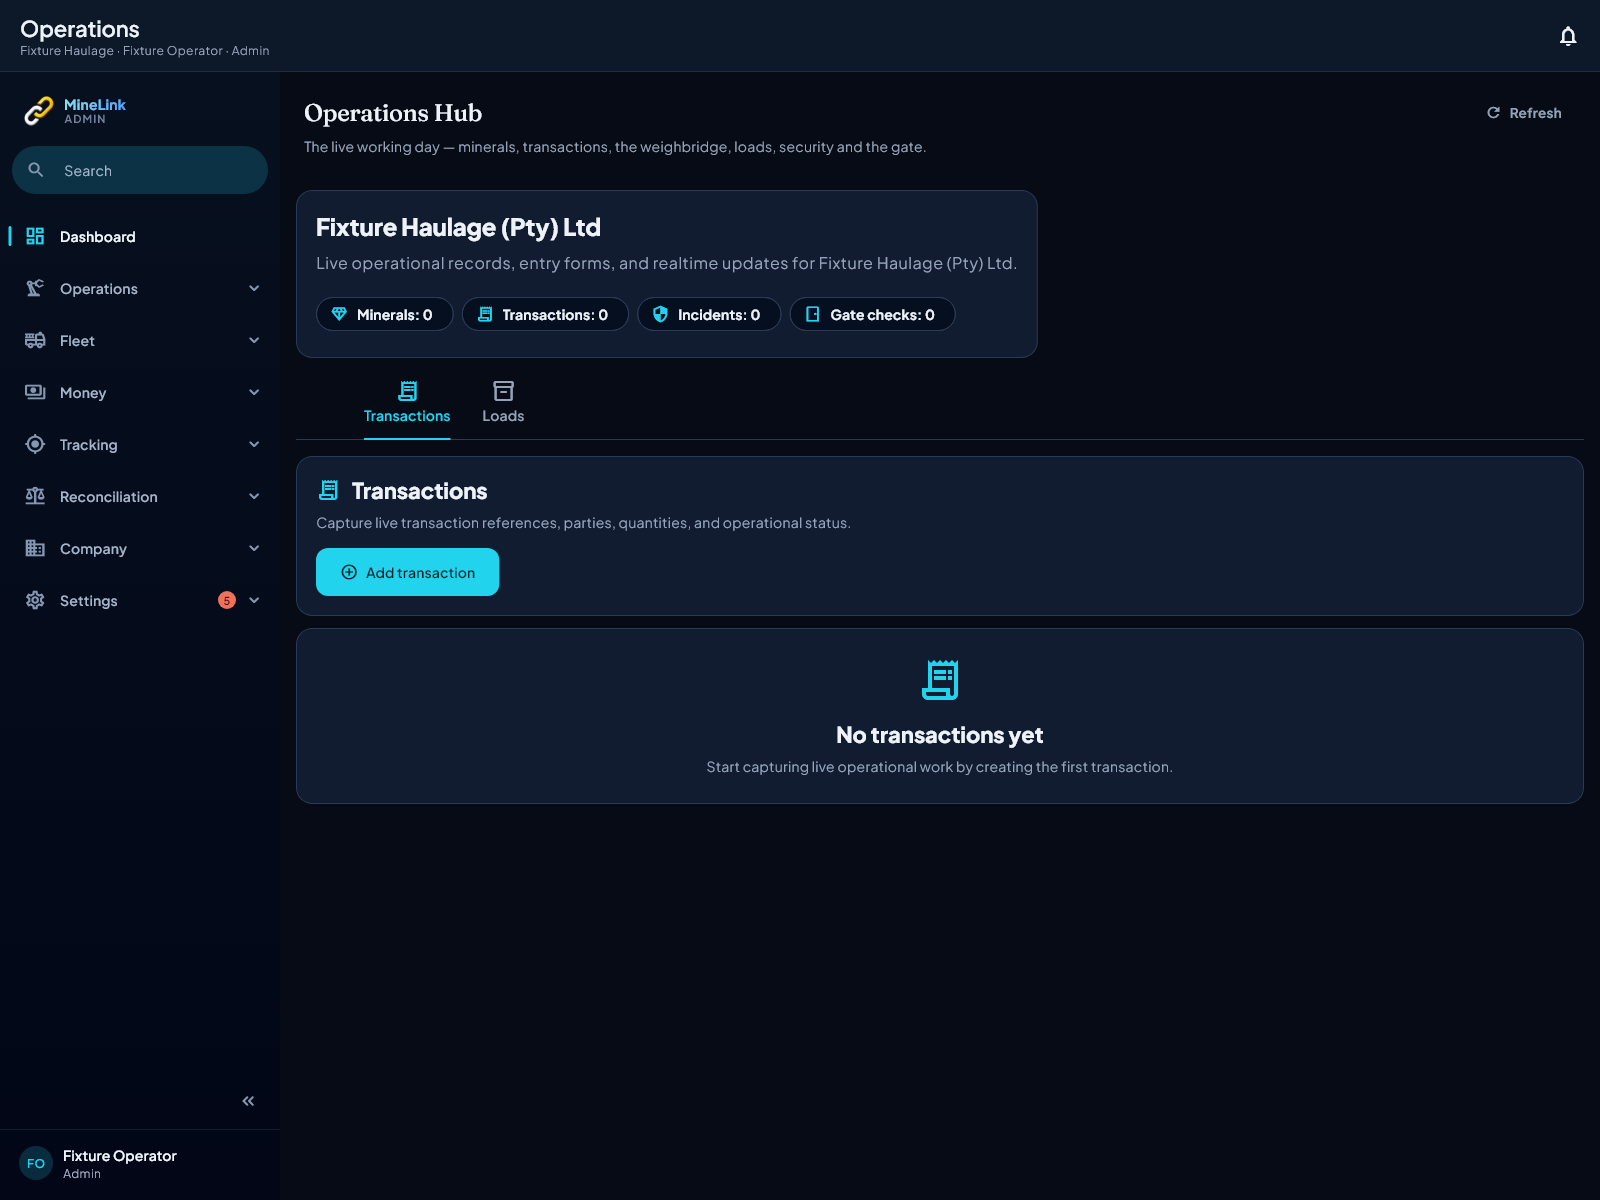
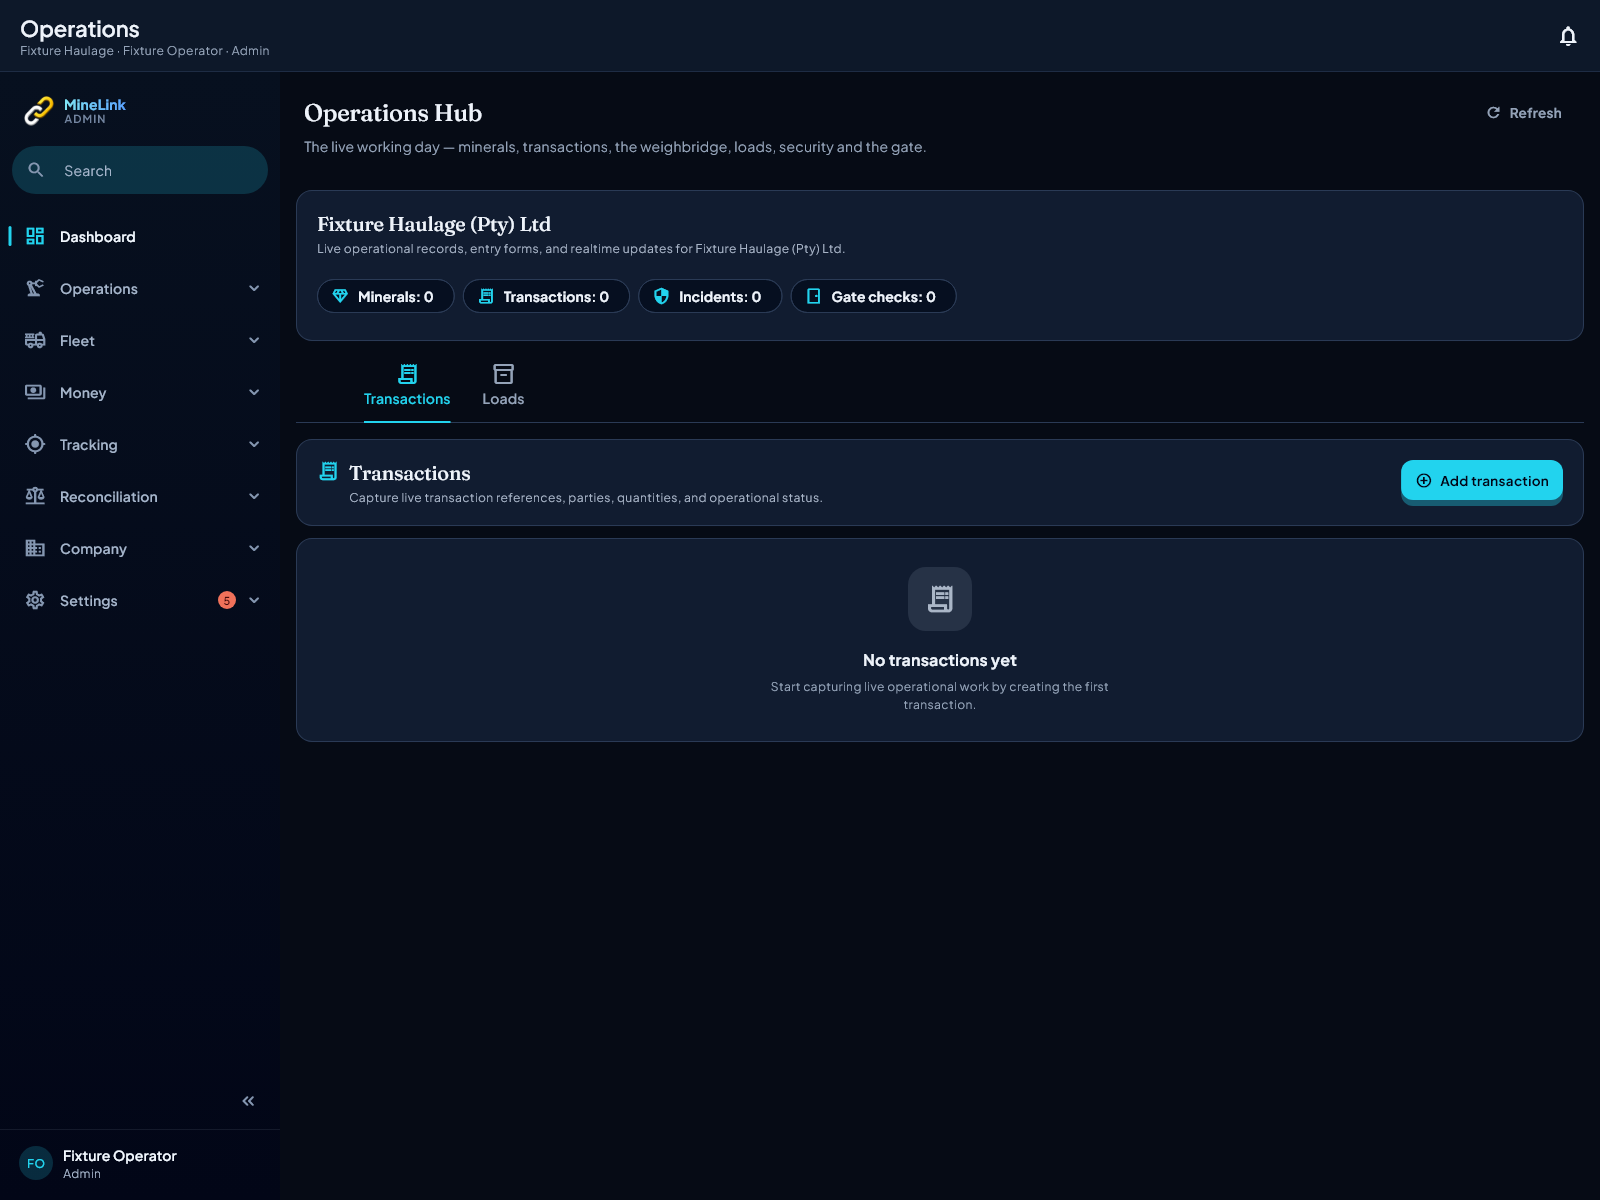
fix(operations): the hub heads its cards in the display face, spans the column, and names its tabs in sentence case
Phase 3 mine-portal pass, 2026-08-23. The Operations Hub was still built
from stock Material: a `Card` headed by a 24px sans ExtraBold company name
that — inside a `CrossAxisAlignment.start` column — sized to its content
and ended at x≈1040 on a 1600px canvas while every card under it spanned
the column; a tab card headed by a 22px sans ExtraBold row with the create
button stacked UNDER it; and a hand-rolled empty state in the same sans.
HANDOFF §3.25 classes 1, 2 and 4 on one screen. Its tab and dialog titles
were title case ("Gate Checks", "Mineral Catalogue", "Add Mineral", "Record
Weighbridge Entry", "Report Security Incident" …).

Now: MlCard + MlSectionTitle (Fraunces) for the company card, full width;
MlSectionTitle with the create action in its action slot for the tab card;
MlEmptyState in an MlCard for the empty body; sentence case on every tab
and dialog title (the tab's wire id is untouched).

Pinned by operations_hub_heads_test.dart — heading fontFamily is Fraunces,
the company card ends within 1.5px of the column edge, the action's right
edge is past 1500 and its top is level with the heading, every tab label is
sentence case, the empty state is the shared widget. Sabotaged by stashing
lib/features/operations: all five cases fail. Both hub goldens regenerated
and looked at. The empty ledger in the render is the fixture's stated intent
(screen_fixtures.dart: "the ledgers are not, on purpose"), not a lie.

Changed region(s): [[0.1875, 0.1542, 1.0, 0.6783]]

diff --git a/lib/features/operations/screens/operations_hub_screen.dart b/lib/features/operations/screens/operations_hub_screen.dart
@@ -313,34 +313,30 @@ class _OperationsSummaryHeader extends StatelessWidget {
 
   @override
   Widget build(BuildContext context) {
-    final theme = Theme.of(context);
-    final scheme = theme.colorScheme;
-
+    // The company card, in the portal's card vocabulary. Until 2026-08-23 it
+    // was a stock `Card` headed by a 24px sans ExtraBold company name, and —
+    // inside a `CrossAxisAlignment.start` column — it sized to its content,
+    // so it ended at x≈1040 on a 1600px canvas while every card under it
+    // spanned the column. Fraunces via `MlSectionTitle`, full width via the
+    // `SizedBox`. Phase 3 mine-portal pass.
     return Padding(
       padding: const EdgeInsets.fromLTRB(16, 16, 16, 0),
       child: Column(
         crossAxisAlignment: CrossAxisAlignment.start,
         children: [
-          Card(
-            child: Padding(
+          SizedBox(
+            width: double.infinity,
+            child: MlCard(
               padding: const EdgeInsets.all(20),
               child: Column(
                 crossAxisAlignment: CrossAxisAlignment.start,
                 children: [
-                  Text(
+                  MlSectionTitle(
                     access.company.companyName,
-                    style: theme.textTheme.headlineSmall?.copyWith(
-                      fontWeight: FontWeight.w800,
-                    ),
+                    subtitle:
+                        'Live operational records, entry forms, and realtime updates for ${access.operatorName}.',
+                    margin: const EdgeInsets.only(bottom: 16),
                   ),
-                  const SizedBox(height: 8),
-                  Text(
-                    'Live operational records, entry forms, and realtime updates for ${access.operatorName}.',
-                    style: theme.textTheme.bodyLarge?.copyWith(
-                      color: scheme.onSurfaceVariant,
-                    ),
-                  ),
-                  const SizedBox(height: 16),
                   Wrap(
                     spacing: 8,
                     runSpacing: 8,
@@ -431,40 +427,22 @@ class _OperationsTabView extends StatelessWidget {
         physics: const AlwaysScrollableScrollPhysics(),
         padding: const EdgeInsets.fromLTRB(16, 16, 16, 24),
         children: [
-          Card(
-            child: Padding(
-              padding: const EdgeInsets.all(20),
-              child: Column(
-                crossAxisAlignment: CrossAxisAlignment.start,
-                children: [
-                  Row(
-                    children: [
-                      Icon(config.icon, color: theme.colorScheme.primary),
-                      const SizedBox(width: 12),
-                      Expanded(
-                        child: Text(
-                          config.title,
-                          style: theme.textTheme.titleLarge?.copyWith(
-                            fontWeight: FontWeight.w800,
-                          ),
-                        ),
-                      ),
-                    ],
-                  ),
-                  const SizedBox(height: 8),
-                  Text(
-                    config.description,
-                    style: theme.textTheme.bodyMedium?.copyWith(
-                      color: theme.colorScheme.onSurfaceVariant,
-                    ),
-                  ),
-                  const SizedBox(height: 16),
-                  FilledButton.icon(
-                    onPressed: canCreate ? onCreatePressed : null,
-                    icon: const Icon(Icons.add_circle_outline),
-                    label: Text(config.createLabel),
-                  ),
-                ],
+          // The tab's heading: Fraunces section title with its icon, the
+          // description as the subtitle, and the create action RIGHT-ALIGNED
+          // in the heading's action slot — not a 20px sans ExtraBold row with
+          // the button stacked under it (HANDOFF §3.25 classes 1 and 2).
+          MlCard(
+            padding: const EdgeInsets.all(20),
+            child: MlSectionTitle(
+              config.title,
+              icon: config.icon,
+              subtitle: config.description,
+              margin: EdgeInsets.zero,
+              action: MlButton.primary(
+                label: config.createLabel,
+                icon: Icons.add_circle_outline,
+                compact: true,
+                onPressed: canCreate ? onCreatePressed : null,
               ),
             ),
           ),
@@ -632,7 +610,7 @@ class _OperationsTabConfig {
     switch (tab) {
       case OperationsTab.minerals:
         return const _OperationsTabConfig(
-          title: 'Mineral Catalogue',
+          title: 'Mineral catalogue',
           description:
               'Maintain live mineral definitions, grades, and measurement units for operational use.',
           createLabel: 'Add mineral',
@@ -665,7 +643,7 @@ class _OperationsTabConfig {
         );
       case OperationsTab.loads:
         return const _OperationsTabConfig(
-          title: 'Mineral Loads',
+          title: 'Mineral loads',
           description:
               'Track loading activity against vehicles, minerals, and transaction records in real time.',
           createLabel: 'Record load',
@@ -675,7 +653,7 @@ class _OperationsTabConfig {
         );
       case OperationsTab.security:
         return const _OperationsTabConfig(
-          title: 'Security Incidents',
+          title: 'Security incidents',
           description:
               'Log real incidents, severity, and status so the security workflow stays current for the team.',
           createLabel: 'Report incident',
@@ -686,7 +664,7 @@ class _OperationsTabConfig {
         );
       case OperationsTab.gate:
         return const _OperationsTabConfig(
-          title: 'Gate Checks',
+          title: 'Gate checks',
           description:
               'Track entry and exit checks with responsible staff, vehicle context, and gate status.',
           createLabel: 'Record gate check',
@@ -712,33 +690,13 @@ class _OperationsEmptyState extends StatelessWidget {
 
   @override
   Widget build(BuildContext context) {
-    final theme = Theme.of(context);
-    return Card(
-      child: Padding(
-        padding: const EdgeInsets.all(28),
-        child: Column(
-          mainAxisSize: MainAxisSize.min,
-          children: [
-            Icon(icon, size: 48, color: theme.colorScheme.primary),
-            const SizedBox(height: 16),
-            Text(
-              title,
-              style: theme.textTheme.titleLarge?.copyWith(
-                fontWeight: FontWeight.w800,
-              ),
-              textAlign: TextAlign.center,
-            ),
-            const SizedBox(height: 8),
-            Text(
-              message,
-              style: theme.textTheme.bodyMedium?.copyWith(
-                color: theme.colorScheme.onSurfaceVariant,
-              ),
-              textAlign: TextAlign.center,
-            ),
-          ],
-        ),
-      ),
+    // The shared empty state, framed in the portal card. It was a stock
+    // `Card` with a 48px accent icon and a 22px sans ExtraBold title — the
+    // hub's own empty-state vocabulary beside the one every other portal
+    // screen uses. Phase 3 mine-portal pass, 2026-08-23.
+    return MlCard(
+      padding: EdgeInsets.zero,
+      child: MlEmptyState(icon: icon, title: title, message: message),
     );
   }
 }
@@ -834,7 +792,7 @@ Future<void> _showMineralDialog(
     context: context,
     builder: (dialogContext) {
       return AlertDialog(
-        title: Text(existing == null ? 'Add Mineral' : 'Edit Mineral'),
+        title: Text(existing == null ? 'Add mineral' : 'Edit mineral'),
         content: Form(
           key: formKey,
           child: ConstrainedBox(
@@ -944,7 +902,7 @@ Future<void> _showTransactionDialog(
         builder: (dialogContext, setState) {
           return AlertDialog(
             title: Text(
-              existing == null ? 'Add Transaction' : 'Edit Transaction',
+              existing == null ? 'Add transaction' : 'Edit transaction',
             ),
             content: Form(
               key: formKey,
@@ -1120,8 +1078,8 @@ Future<void> _showWeighbridgeDialog(
   final didSubmit = await _showStatefulDialog(
     context,
     title: existing == null
-        ? 'Record Weighbridge Entry'
-        : 'Edit Weighbridge Entry',
+        ? 'Record weighbridge entry'
+        : 'Edit weighbridge entry',
     builder: (dialogContext, setState) {
       return Form(
         key: formKey,
@@ -1207,7 +1165,7 @@ Future<void> _showLoadDialog(
 
   final didSubmit = await _showStatefulDialog(
     context,
-    title: existing == null ? 'Record Mineral Load' : 'Edit Mineral Load',
+    title: existing == null ? 'Record mineral load' : 'Edit mineral load',
     builder: (dialogContext, setState) {
       return Column(
         mainAxisSize: MainAxisSize.min,
@@ -1311,8 +1269,8 @@ Future<void> _showSecurityDialog(
   final didSubmit = await _showStatefulDialog(
     context,
     title: existing == null
-        ? 'Report Security Incident'
-        : 'Edit Security Incident',
+        ? 'Report security incident'
+        : 'Edit security incident',
     builder: (dialogContext, setState) {
       return Form(
         key: formKey,
@@ -1423,7 +1381,7 @@ Future<void> _showGateDialog(
 
   final didSubmit = await _showStatefulDialog(
     context,
-    title: existing == null ? 'Record Gate Check' : 'Edit Gate Check',
+    title: existing == null ? 'Record gate check' : 'Edit gate check',
     builder: (dialogContext, setState) {
       return Column(
         mainAxisSize: MainAxisSize.min,

diff --git a/test/features/operations/operations_hub_heads_test.dart b/test/features/operations/operations_hub_heads_test.dart
@@ -1,0 +1,135 @@
+// The Operations Hub speaks the portal's card vocabulary.
+//
+// Phase 3 mine-portal pass, 2026-08-23. The hub was still built from stock
+// Material — a `Card` headed by a 24px sans ExtraBold company name that
+// sized to its content (ended at x≈1040 on a 1600px canvas while every card
+// under it spanned the column), a tab card headed by a 22px sans ExtraBold
+// row with the create button stacked UNDER it, and a hand-rolled empty state
+// in the same sans. Plus title case on tab titles and dialog titles ("Gate
+// Checks", "Add Mineral", "Record Weighbridge Entry"). This pins the heading
+// faces by `fontFamily`, the card's width by geometry, the action's
+// placement (right of the heading, not under it) and the casing.
+
+import 'package:flutter/material.dart';
+import 'package:flutter/rendering.dart';
+import 'package:flutter_riverpod/flutter_riverpod.dart';
+import 'package:flutter_test/flutter_test.dart';
+import 'package:shared_preferences/shared_preferences.dart';
+import 'package:supabase_flutter/supabase_flutter.dart';
+
+import 'package:flutter_application_1/core/design/components/ml_components.dart';
+import 'package:flutter_application_1/core/design/tokens/ml_tokens.dart';
+import 'package:flutter_application_1/core/theme/app_theme.dart';
+import 'package:flutter_application_1/features/auth/models/user_type.dart';
+import 'package:flutter_application_1/features/operations/models/operations_models.dart';
+import 'package:flutter_application_1/features/operations/screens/operations_hub_screen.dart';
+
+import '../../fixtures/screen_fixtures.dart';
+import '../../test_helpers/real_fonts.dart';
+import '../../test_helpers/frozen_clock.dart';
+
+void main() {
+  setUpAll(() async {
+    freezeCaptureClock();
+    await loadRealFonts();
+    SharedPreferences.setMockInitialValues({});
+    await Supabase.initialize(
+      url: 'http://localhost:54321',
+      anonKey: 'operations-hub-heads-test',
+    );
+  });
+
+  Future<void> pumpHub(WidgetTester tester) async {
+    tester.view.physicalSize = const Size(1600, 1200);
+    tester.view.devicePixelRatio = 1.0;
+    addTearDown(tester.view.reset);
+
+    await tester.pumpWidget(ProviderScope(
+      overrides: [
+        ...companyScopeOverrides(
+            role: UserRole.admin, orgType: OrgType.transporter),
+        operationsOverride(),
+      ],
+      child: MaterialApp(
+        theme: AppTheme.darkTheme,
+        home: const Scaffold(body: OperationsHubScreen()),
+      ),
+    ));
+    await tester.pump();
+    await tester.pump(const Duration(milliseconds: 400));
+  }
+
+  String? familyOf(WidgetTester tester, String text) {
+    final paragraph =
+        find.text(text).evaluate().single.renderObject! as RenderParagraph;
+    return paragraph.text.style?.fontFamily;
+  }
+
+  testWidgets('the company card and the tab card head in the display face',
+      (tester) async {
+    await pumpHub(tester);
+
+    final company = find.text('Fixture Haulage (Pty) Ltd');
+    expect(company, findsOneWidget);
+    expect(familyOf(tester, 'Fixture Haulage (Pty) Ltd'), MlTokens.fontSerif,
+        reason: 'company card heading is not in Fraunces');
+
+    // The tab heading: the tab bar also says "Transactions", so find the one
+    // that is a section title.
+    final heading = find.descendant(
+      of: find.byType(MlSectionTitle),
+      matching: find.text('Transactions'),
+    );
+    expect(heading, findsOneWidget, reason: 'tab heading is not a section title');
+    expect(
+      (heading.evaluate().single.renderObject! as RenderParagraph)
+          .text
+          .style
+          ?.fontFamily,
+      MlTokens.fontSerif,
+    );
+  });
+
+  testWidgets('the company card spans the column', (tester) async {
+    await pumpHub(tester);
+    // The hub pads 16 each side, so a full-width card ends at 1584.
+    final card = tester.getRect(find.ancestor(
+      of: find.text('Fixture Haulage (Pty) Ltd'),
+      matching: find.byType(MlCard),
+    ));
+    expect(card.right, closeTo(1584, 1.5),
+        reason: 'company card ends at ${card.right}, not the column edge');
+  });
+
+  testWidgets('the create action sits beside the heading, not under it',
+      (tester) async {
+    await pumpHub(tester);
+    final heading = tester.getRect(find.descendant(
+      of: find.byType(MlSectionTitle),
+      matching: find.text('Transactions'),
+    ));
+    final button = tester.getRect(find.text('Add transaction'));
+    expect(button.right, greaterThan(1500),
+        reason: 'action should be right-aligned, ends at ${button.right}');
+    expect(button.top, lessThan(heading.bottom + 4),
+        reason: 'action sits under the heading (top ${button.top} vs '
+            'heading bottom ${heading.bottom})');
+  });
+
+  test('tab titles and dialog titles are sentence case', () {
+    for (final tab in OperationsTab.values) {
+      final label = tab.label;
+      final words = label.split(' ');
+      for (final w in words.skip(1)) {
+        expect(w, isNot(matches(RegExp(r'^[A-Z][a-z]'))),
+            reason: '"$label" is title case');
+      }
+    }
+  });
+
+  testWidgets('the empty state is the shared one', (tester) async {
+    await pumpHub(tester);
+    expect(find.byType(MlEmptyState), findsOneWidget);
+    expect(find.text('No transactions yet'), findsOneWidget);
+  });
+}

diff --git a/lib/features/operations/models/operations_models.dart b/lib/features/operations/models/operations_models.dart
@@ -41,7 +41,7 @@ extension OperationsTabX on OperationsTab {
       case OperationsTab.security:
         return 'Security';
       case OperationsTab.gate:
-        return 'Gate Checks';
+        return 'Gate checks';
     }
   }
 
